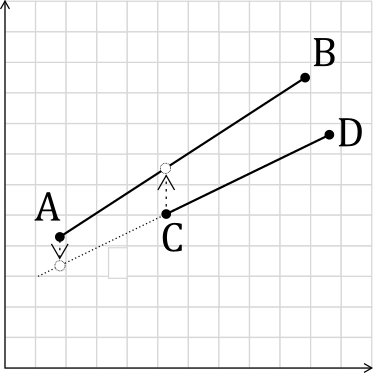
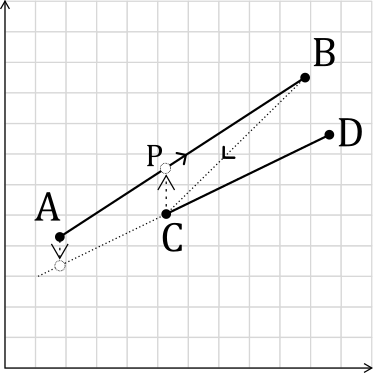
correction for Martinez-Rueda is_above post

diff --git a/_posts/2025-01-11-bentley-ottman.md b/_posts/2025-01-11-bentley-ottman.md
@@ -3,13 +3,15 @@ layout: post
 title:  "Notes on the Martinez-Rueda Polygon Clipping algorithm"
 date:   2025-01-11
 author: Lior Sinai
-last_modified_at: 2025-01-11
+last_modified_at: 2026-10-24
 sidenav: true
 categories: mathematics
 tags:  polygons
 ---
 
 _The Martinez-Rueda algorithm computes boolean operations between polygons. It can be used for polygon intersections (polygon clipping), unions, differences and XORs. I recently implemented it by following a comprehensive guide at https://sean.fun/a/polygon-clipping-pt2/. However, it was slightly lacking in some complex scenarios, mainly resulting from the strict ordering required by the Bentley-Ottmann line intersection algorithm. This post explains my minor modifications to address this crucial part of the algorithm._
+
+Update 2026-10-24: Added the alternative interpretation of clockwise/counter-clockwise for `is_above` and removed the fallback for a vertical line.
 
 [PolygonAlgorithms.jl]: https://github.com/LiorSinai/PolygonAlgorithms.jl
 [polygon_clipping]: https://en.wikipedia.org/wiki/Clipping_(computer_graphics)
@@ -28,7 +30,7 @@ _The Martinez-Rueda algorithm computes boolean operations between polygons. It c
 <figure class="post-figure" id="fig-spiral-star">
 <img class="img-95"
     src="/assets/posts/polygon-clipping/spiral_star_martinez.png"
-	alt="Boolean operations spiral start"
+	alt="Boolean operations spiral star"
 	>
 <figcaption>Boolean operations between a spiral and a star, computed with the Martinez-Rueda algorithm.</figcaption>
 </figure>
@@ -60,8 +62,8 @@ See the above example and the table below for a brief comparison between the alg
   </tr>
   <tr>
     <td>Time complexity</td>
-    <td>$\mathcal{O}(nm)$</td>
     <td>$\mathcal{O}((n+m+k)\log(n+m))$</td>
+    <td>$\mathcal{O}(nm)$</td>
   </tr>
   <tr>
     <td>Return types</td>
@@ -71,7 +73,7 @@ See the above example and the table below for a brief comparison between the alg
 </tbody>
 </table>
 
-The Martinez-Rueda algorithm is more versatile because it fundamentally operates at a segment level whereas Weiler-Atherton which operates at a point level, and so it has a "bigger picture" view of the polygons.
+The Martinez-Rueda algorithm is more versatile because it fundamentally operates at a segment level whereas Weiler-Atherton operates at a point level, and so it has a "bigger picture" view of the polygons.
 A disadvantage of the Martinez-Rueda algorithm is that it is more sensitive to numerical inaccuracies - for reasons that will be described shortly - such as a line that is almost vertical or tiny regions of intersection. In practice I found their runtimes similar, with Martinez-Rueda running faster in some situations and slower in others. For the spiral-star example, it is about 1.5&times; slower.
 
 The original paper can be found [here][martinez_rueda_paper], but I followed the guide at [https://sean.fun/a/polygon-clipping-pt2/](https://sean.fun/a/polygon-clipping-pt2/).
@@ -108,15 +110,15 @@ Once these are known, it is easy to select the relevant segments to the given op
 The genius of the Martinez-Rueda algorithm is to extend upon the [Bentley-Ottmann algorithm][bentley-ottmann] for segment intersections to do this.
 It does a vertical line sweep from left to right, bottom to top.
 At any given moment, we can imagine having a stack of all the lines that intersect the vertical line, ordered from top to bottom.
-According to the Bentley-Ottmann algorithm, to find intersections through a segment, we only need to check for intersections with the segments immediately above and immediately below it in stack.
+According to the Bentley-Ottmann algorithm, to find intersections through a segment, we only need to check for intersections with the segments immediately above and immediately below it in the stack.
 At the same time, we can propagate the fill annotations from the segment below, or empty space if nothing is below it.
 Hence, finding the exact segments that are above and below a segment is paramount to this algorithm, and 
 even slight mistakes can cause errors that propagate to other segments.
 
 This is the gist of the algorithm.
 The practicalities of handling the event queue and many edge cases such as handling coincident lines and tricky annotation situations are described in the [article][martinez_rueda_sean].
-From now, I will focus only on the `is_above?` algorithm to determine if a segment is above another segment.
-I spent a long time debugging the whole Martinez-Martinez algorithm against a variety of test cases, and I always seemed to land back at this `is_above?` function. Getting this function right solved most of my problems.
+From now on, I will focus only on the `is_above?` algorithm to determine if a segment is above another segment.
+I spent a long time debugging the whole Martinez-Rueda algorithm against a variety of test cases, and I always seemed to land back at this `is_above?` function. Getting this function right solved most of my problems.
 
 <h2 id="is-above">2 Is above?</h2>
 
@@ -138,7 +140,7 @@ This will then give a sweep status like:
 Given line segments $AB$ and $CD$, it is tempting to sort them only by the starting point coordinate:
 
 $$
-  y_A \geq y_C
+  A_y > C_y
 \tag{2.1}
 \label{eq:greater}
 $$
@@ -148,7 +150,10 @@ However already in the figure we can see an example where it does not.
 Line 2's starting point is below line 3's, but it makes more sense to consider line 2 as "above" line 3.
 
 A better definition for "above" is needed.
-Instead, we will consider one segment above another if its starting point is above its projection on the other line:
+Instead, define a segment above another if the projection of the other segment's starting point
+on this segment lies above that starting point.
+That is, the other segment has to project up on to this segment.
+Equivalently, the starting point of the other segment lies clockwise to this segment.
 
 <figure class="post-figure" id="fig-project">
 <img class="img-60"
@@ -158,15 +163,28 @@ Instead, we will consider one segment above another if its starting point is abo
 <figcaption></figcaption>
 </figure>
 
-That is, $y_p \leq y_A$, where $y_p$ is:
+Using the projection we have $P_y > C_y $, where $P_y$ is:
 
 $$
 \begin{align}
-  y_p &= \frac{y_D - y_C}{x_D - x_C}(x_A - x_C) + y_C \\
-\implies & 0 \leq (y_A - y_C)(x_D - x_C) - (y_D - y_C)(x_A - x_C) \; ; x_D \neq x_C 
+  P_y = \frac{B_y - A_y}{B_x - A_x}(C_x - A_x) + A_y  &> C_y \\
+\implies  (B_y - A_y)(C_x - A_x) - (C_y - A_y)(B_x - A_x) &> 0
 \end{align}
 \tag{2.2}
 \label{eq:projection}
+$$
+
+This is equivalent to checking if the orientation of A-B-C is clockwise:
+
+$$
+\begin{align}
+  \text{cross}((B-A), (C-B)) &< 0 \\
+\implies (B_y - A_y)(C_x - B_x) - (C_y - B_y)(B_x - A_x) &> 0 \\
+         (B_y - A_y)(C_x - A_x + A_x - B_x ) - (C_y - A_y + A_y - B_y )(B_x - A_x) &> 0 \\
+\implies  (B_y - A_y)(C_x - A_x) - (C_y - A_y)(B_x - A_x) &> 0
+\end{align}
+\tag{2.3}
+\label{eq:cross}
 $$
 
 <figure class="post-figure" id="fig-symmetry">
@@ -177,14 +195,17 @@ $$
 <figcaption></figcaption>
 </figure>
 
-However one problem is this equation is not symmetrical. (This is the case in the original [statusCompare][statusCompare].) 
-In the figure above, both projections are below the other line.
-Hence `is_above` will return false for both segments. Yet one must be above the other.
-Therefore to maintain symmetry, the function will always only consider the right segment. 
-If it is the segment of interest, we check if its starting point is above its projection on the left line.
-Otherwise if we are checking if the left segment is above, we check if the right segment's starting point is below its projection on the left segment.
+However one problem is this equation is not symmetrical.
+In the figure above, both projections are above the other line.
+Hence `is_above` will return true for both segments. Yet one must be above the other.
+Therefore to maintain symmetry, the segment of interest must always be the left segment.
+If the first segment is instead to the right, change the criteria to match the second (left) segment's perspective:
+  1. The (right) segment is above if its own starting point lies above the left segment. That is, it must project downwards on to the left segment.
+  2. Equivalently, the orientation of the starting point of the (right) segment is counter-clockwise to the left segment.
 
-There are two other special cases. The first is if the starting point is colinear or coincident with the other line:
+For both cases in the above [figure](#fig-symmetry) the right segment will return false.
+
+If the starting point is colinear or coincident with the other, use the endpoint instead:
 
 <figure class="post-figure" id="fig-coincident">
 <img class="img-60"
@@ -194,60 +215,52 @@ There are two other special cases. The first is if the starting point is colinea
 <figcaption></figcaption>
 </figure>
 
-In this case, the endpoint is used instead.
-
-The second and final case is a vertical line:
-
-<figure class="post-figure" id="fig-vertical">
-<img class="img-60"
-    src="/assets/posts/polygon-clipping/vertical.png"
-	alt="A vertical line"
-	>
-<figcaption></figcaption>
-</figure>
-
-As implied by equation $\ref{eq:projection}$, if the line is vertical the projection equation is indeterminant.
-In fact, if the line were slightly sloped towards the left or towards the right, the answer would differ.
-Here instead we will simply compare y-values. That is, fallback to $\ref{eq:greater}$.
-(The original [statusCompare][statusCompare] did not account for this case.) 
-
-
-<div class="card">
-  <div class="card-body">
-    <h5 class="card-title">No fallback</h5>
-    <p class="card-text">
-		If there is no fallback, then when $x_C=x_D$ equation $\ref{eq:projection}$ becomes:
-    $$
-    0 \geq (y_D - y_C)(x_A - x_C)
-    $$
-    In the algorithm vertical events are always constructed from bottom to top, so $y_D > y_C$ and this becomes a test whether or not the $A$ is to the left of the vertical $CD$ segment.
-	</p>
-  </div>
-</div>
-
-Hence the `is_above` algorithm is:
+In summary, the `is_above` algorithm is:
 
 <blockquote>
 <u><b>Is segment AB above CD?</b></u> <br>
 inputs: $AB$, $CD$ <br>
-<b>if</b> colinear($A, C, D$) <br>
-$\quad$ <b>return</b> point_above_line($B, CD$) <br>
-<b>if</b> $x_C < x_A$ <br>
-$\quad$ <b>return</b> point_above_line($A, CD$) <br>
+<b>if</b> $ C_x > A_x $ <br>
+$\quad \theta$ $\leftarrow$ orientation($A, B, C$) <br>
+$\quad$ <b>if</b> $\theta$ = colinear <br>
+$\quad\quad \theta \leftarrow$ orientation($A, B, D$) <br>
+$\quad$ <b>return</b> $\theta$ = clockwise <br>
 <b>else</b> <br>
-$\quad$ <b>return not</b> point_above_line($C, AB$)
+$\quad \theta \leftarrow$ orientation($C, D, A$) <br>
+$\quad$ <b>if</b> $\theta$ = colinear <br>
+$\quad\quad \theta \leftarrow$ orientation($C, D, B$) <br>
+$\quad$ <b>return</b> $\theta$ = counter-clockwise <br>
 </blockquote>
 
-where `point_above_line` is:
+where `orientation` is:
 <blockquote>
-<u><b>point_above_line</b></u> <br>
-inputs: $P$, $CD$ <br>
-<b>if</b> $x_C = x_D$ <br>
-$\quad$ <b>return</b> $y_p \geq \text{min}(y_C, y_D)$ <br>
-<b>return</b> $ (y_P - y_C)(x_D - x_C) - (y_D - y_C)(x_P - x_C) \geq 0$
+<u><b>orientation</b></u> <br>
+inputs: $p, q, r$ <br>
+$ c \leftarrow (q_y - p_y)(r_x - q_x) - (r_y-q_y)(q_x-p_x) $ <br>
+<b>if</b> $c = 0$ <br>
+$\quad$ <b>return</b> colinear <br>
+<b>else if</b> $c > 0$ <br>
+$\quad$ <b>return</b> clockwise <br>
+<b>else </b> <br>
+$\quad$ <b>return</b> counter-clockwise <br>
 </blockquote>
 
-This final algorithm is simple, but absolutely crucial for the algorithm.
+This final algorithm is simple, but absolutely crucial for the Martinez-Rueda sweep.
+
+Lastly, it's worth noting how this behaves for a vertical line AB.
+In this case from equation $\ref{eq:cross}$ with $A_x=B_x$ we have:
+
+$$
+\begin{align}
+  (B_y - A_y)(C_x - A_x) &> 0
+\end{align}
+\tag{2.4}
+\label{eq:vertical}
+$$
+
+For Martinez-Rueda points are ordered left to right, bottom to top.
+So $B_y > A_y$, and this effectively tests that point C is to the right of the line.
+If $C_x \le A_x$ (including C on the line), the right branch is used instead, with CD as the reference segment
 
 <h2 id="compare-events">3 Compare events</h2>
 
@@ -270,7 +283,7 @@ An example ordering is:
 The algorithm is:
 1. If the points are not the same, the smaller event is to the left, or the lower one if they are on a vertical line.
 2. If the other points are also the same, this event is not smaller. (Equal segments.)
-3. If the one is a start event and the other an end event, the end event is considered smaller. (Common points.)
+3. If one is a start event and the other an end event, the end event is considered smaller. (Common points.)
 4. The smaller event is below the other one according to `not is_above`, unless the segment of interest is vertical, then the smaller event is "not above" if it is to the right.  (Common start/end points.)
 
 For example, in the picture:
